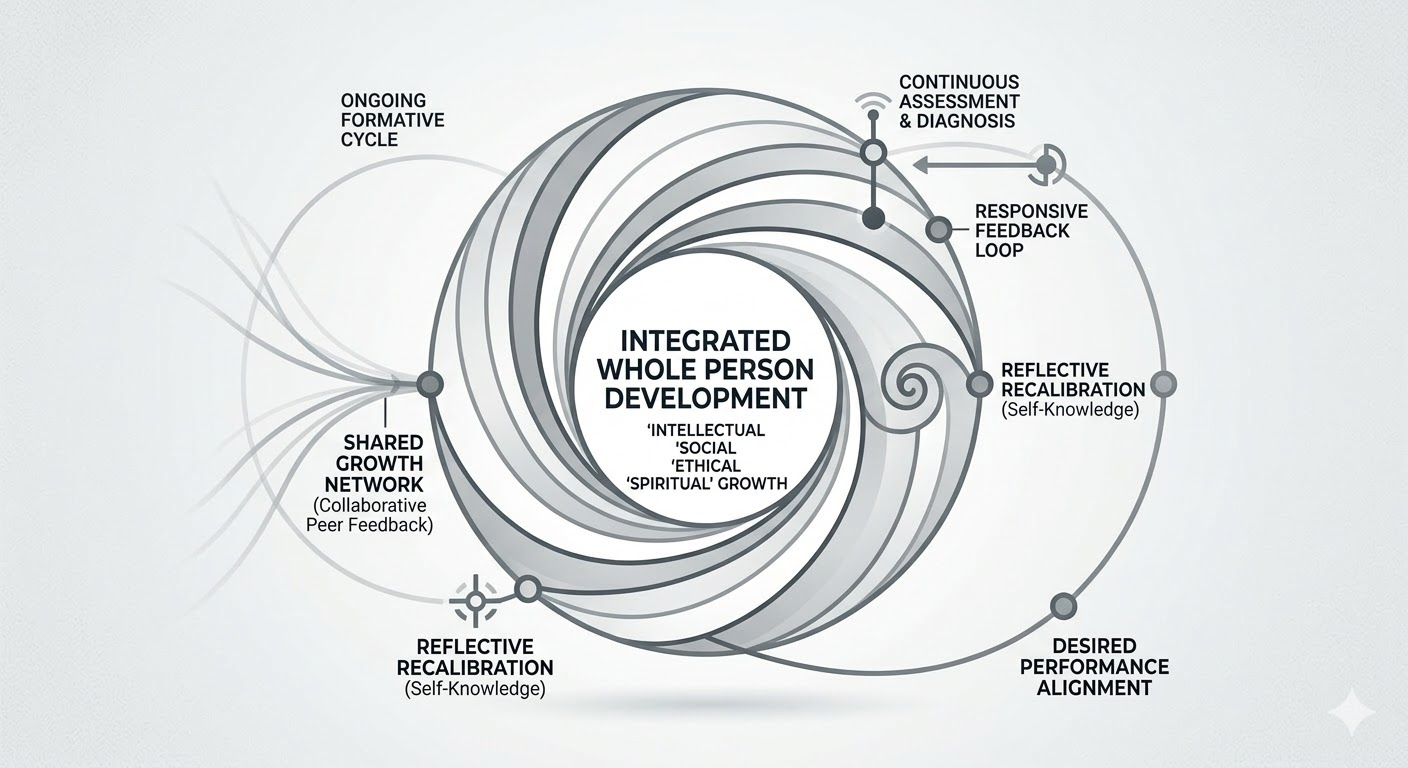
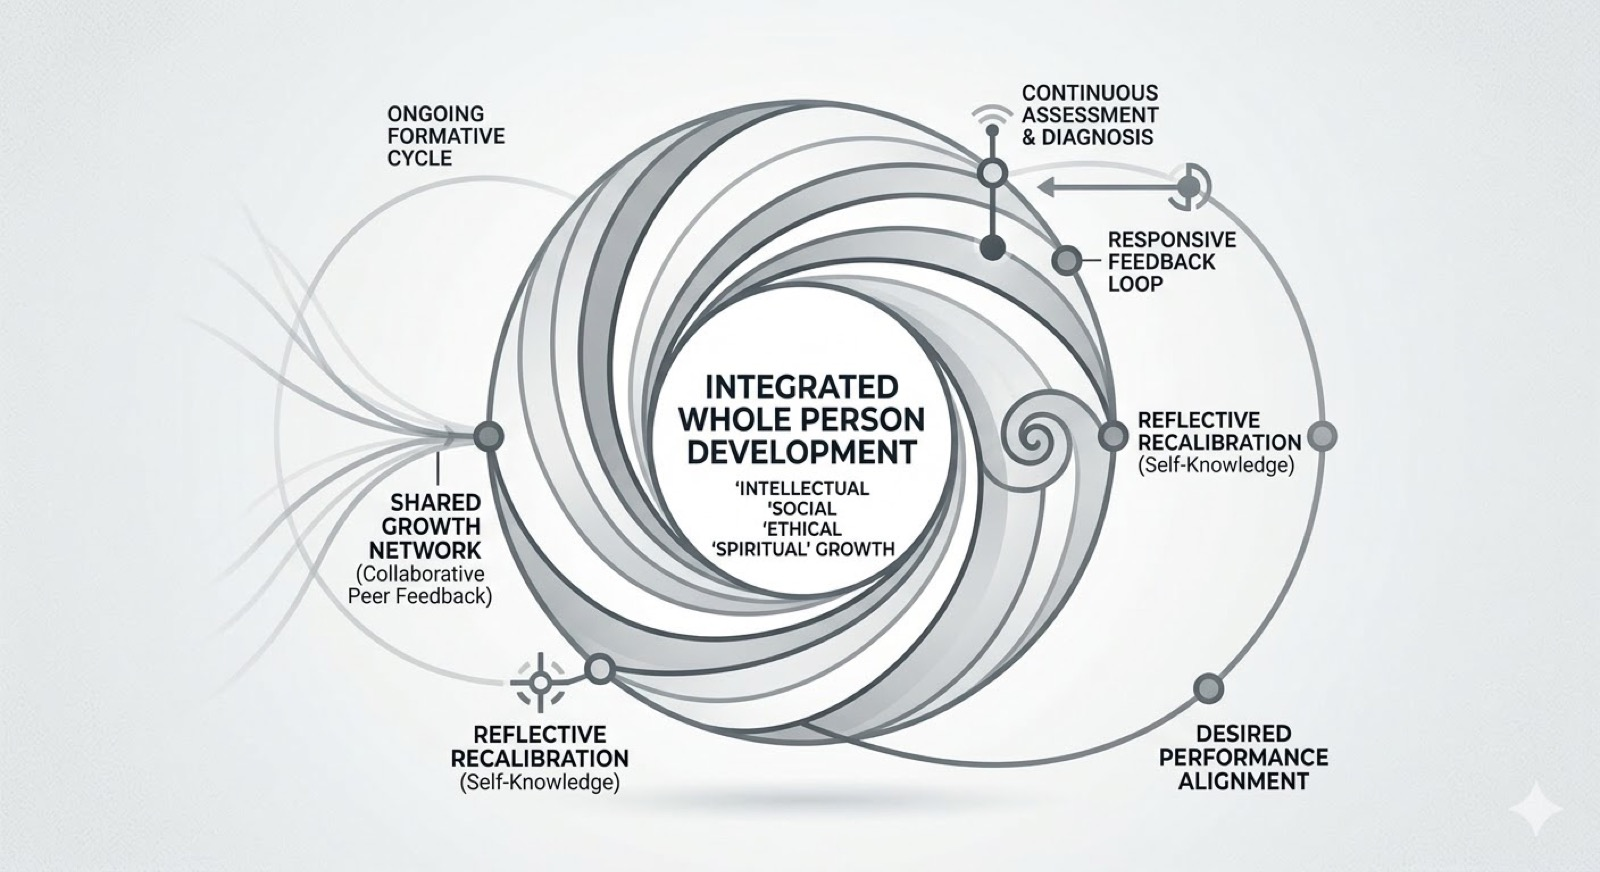
content: real social URLs, merge experience into bio, drop orphans, polish
Sidebar identity:
  - LinkedIn now points to in/deoksoon-kim-5a58ba39
  - ResearchGate now points to profile/Deoksoon-Kim
  - Email pill removed entirely (was a stub; address not surfaced)
  - Location enriched: "Lynch School of Education, Boston College"
  - Result: 4 working pills, 0 dead links anywhere on the site

Information architecture:
  - bio.md absorbed the structured content from experience.md as
    Global Initiatives · Academic Career · Awards & Recognition ·
    Certifications. Bio is now the canonical "about Dr. Kim" page,
    sized to warrant a sticky TOC.
  - Deleted experience.md, location.md, officehours.md — these were
    orphaned from the masthead nav and the address/office content
    is no longer surfaced (per request).

Editorial polish:
  - Gallery cards: replaced "To-be-filled" titles with thematic
    descriptions tied to her research areas (Classroom Research ·
    Identity & Public Scholarship). Image alt text now meaningful.
  - DK English Teams: replaced one-line stub with on-brand
    "team profiles coming" copy that connects to the hub.
  - New 404.md: clean fallback page with quick links and the LinkedIn
    URL for outreach.

Performance:
  - Compressed three oversized images via sips (max 1600px, q75):
    gallery/3.jpg  1452 → 301 KB  (−1151)
    gallery/4.jpg  1107 → 252 KB  (−855)
    res/formative-cover.jpg  353 → 214 KB  (−139)
  - Combined: ~2.1 MB shaved off any page that loads them.

diff --git a/bio.md b/bio.md
@@ -3,17 +3,76 @@ layout: single
 title: "Biography"
 permalink: /bio/
 author_profile: true
-toc: false
+toc: true
+toc_label: "Sections"
+toc_sticky: true
 ---
 
 My research focuses on understanding the needs of immigrant students to facilitate English language acquisition and academic success within the K-12 system. I investigate how instructional technology can be leveraged to enhance learning experiences in STEM and language arts, with a specific emphasis on multimodal digital storytelling.
 
-Throughout my academic career, I have explored the intersections of gender and immigration, formative education, and the development of professional identities for teachers. My work often bridges the gap between cognitive and sociocultural insights to create more equitable educational environments.
+Throughout my academic career, I have explored the intersections of gender and immigration, formative education, and the development of professional identities for teachers. My work often bridges cognitive and sociocultural insights to create more equitable educational environments.
 
-### Professional Journey
-
-After beginning my career as an educator in Seoul, where I founded the Tip-Top Kids English School to serve low-income districts, I transitioned to higher education in the United States. I have since held faculty positions and visiting scholar roles at institutions including Boston College, the University of South Florida, and Harvard Graduate School of Education.
-
-### Global Impact
+## Global Initiatives
+{: .section-header}
 
 I am deeply involved in international educational initiatives, including representing Boston College in working groups with the OECD on the Education 2030 Project. My current projects include a hydroponic Green House initiative with Waltham schools and ongoing research with CityConnects to support emergent bilingual learners.
+
+## Academic Career
+{: .section-header}
+
+### Boston College — [Lynch School of Education and Human Development](https://www.bc.edu/)
+
+**2021 – Present** \| Professor, Teaching, Curriculum, and Society
+**2022 – Present** \| Affiliated Faculty Member, Formative Education Department
+**2016 – 2021** \| Associate Professor, Teaching, Curriculum, and Society
+
+### Harvard University — [Project Zero](https://www.harvard.edu/), Graduate School of Education
+
+**2022 – 2023** \| Visiting Scholar
+Hosted by Drs. Howard Gardner and Wendy Fisher.
+
+### Seoul National University — [College of Education](https://en.snu.ac.kr/)
+
+**Fall 2022** \| Visiting Professor, English Education Department.
+
+### University of South Florida — [College of Education](https://www.usf.edu/)
+
+**2012 – 2016** \| Associate Professor, Foreign Language Education / ESOL / SLA · Department of Teaching and Learning
+**2015 – 2016** \| Core Faculty Member, Teacher Education Doctoral Program
+**2015 – 2016** \| Affiliated Faculty Member, Department of Women's and Gender Studies
+**2012 – 2013** \| Director, Second Language Acquisition / Instructional Technology Interdisciplinary Doctoral Program
+**2006 – 2012** \| Assistant Professor, Secondary Education
+
+### University of Pennsylvania — [Graduate School of Education](https://www.upenn.edu/)
+
+**Spring 2014** \| Visiting Scholar.
+
+### University of Cambridge — [Faculty of Education](https://www.cam.ac.uk/)
+
+**Fall 2013** \| Visiting Scholar
+Hosted by Drs. Michael Evans and Linda Fisher.
+
+### University of New Mexico — [College of Education](https://www.unm.edu/)
+
+**2005 – 2006** \| Postdoctoral Fellow, Language, Literacy, and Sociocultural Studies.
+
+### Founding & Early Career
+
+**1997 – 2000** \| Founder and President, Tip-Top Kids English School, Seoul
+Developed EFL programs, storytelling curricula, and teacher professional development serving roughly 1,500 students. Concurrently served as Chief EFL Teacher at Kwang-hee Elementary School.
+
+**1993 – 1997** \| Academic Director, Neo English Academy with Lego Dacta, Seoul.
+
+## Awards & Recognition
+{: .section-header}
+
+**2025** — Best Paper of the Year · Korean American Educational Research Association (KAERA)
+**2021** — Best Paper of the Year · AERA Online Teaching and Learning SIG
+**2016** — Best Article of the Year · *Journal of Second Language Writing*
+**1998** — Letter of Appreciation · 15th President of the Republic of Korea, Kim Dae-jung
+
+## Certifications
+{: .section-header}
+
+**1996** — International Certificate in Teaching English to Children · Heinemann Publishing Co., United Kingdom
+**1988** — National Certificate (Level 2), Teaching English in Secondary Education · Republic of Korea

diff --git a/404.md b/404.md
@@ -1,0 +1,20 @@
+---
+layout: single
+title: "Page not found"
+permalink: /404.html
+author_profile: true
+sitemap: false
+excerpt: "The page you requested could not be found."
+---
+
+The page you requested could not be located. It may have been moved, renamed, or no longer exists.
+
+A few useful starting points:
+
+* [Biography](/bio/) — academic background and career
+* [Publications](/publications/) — research threads and selected papers
+* [Research](/research/) — current projects and research areas
+* [Teaching](/teaching/) — courses and curriculum work
+* [DK English School](/dk-english/) — applied work in language education
+
+If you arrived here by following a link from another site, please feel free to [reach out](https://www.linkedin.com/in/deoksoon-kim-5a58ba39) so the link can be corrected.

diff --git a/gallery/index.md b/gallery/index.md
@@ -10,23 +10,23 @@ toc_sticky: true
 
 <link rel="stylesheet" href="https://cdnjs.cloudflare.com/ajax/libs/lightgallery/2.7.2/css/lightgallery-bundle.min.css" />
 
-### Category 1
+### Classroom Research
 {: .section-header}
 
 {::nomarkdown}
 <div class="category-gallery content-grid">
-  {% include gallery-card.html image="/assets/images/gallery/1.jpg" title="To-be-filled" desc="To-be-filled" sub="Emergent bilinguals in STEM." %}
-  {% include gallery-card.html image="/assets/images/gallery/3.jpg" title="To-be-filled" desc="To-be-filled" sub="Digital wikis in ESL." %}
+  {% include gallery-card.html image="/assets/images/gallery/1.jpg" title="Emergent Bilinguals in STEM" desc="Research moments from multilingual middle-school science classrooms." sub="Emergent bilinguals in STEM." %}
+  {% include gallery-card.html image="/assets/images/gallery/3.jpg" title="Digital Wikis in ESL" desc="Collaborative writing studies with second-language learners." sub="Digital wikis in ESL." %}
 </div>
 {:/nomarkdown}
 
-### Category 2
+### Identity & Public Scholarship
 {: .section-header}
 
 {::nomarkdown}
 <div class="category-gallery content-grid">
-  {% include gallery-card.html image="/assets/images/gallery/2.jpg" title="To-be-filled" desc="To-be-filled" sub="Identity construction." %}
-  {% include gallery-card.html image="/assets/images/gallery/4.jpg" title="To-be-filled" desc="To-be-filled" sub="Sharing research insights." %}
+  {% include gallery-card.html image="/assets/images/gallery/2.jpg" title="Identity Construction" desc="Bilingual identity and voice in digital storytelling work." sub="Identity construction." %}
+  {% include gallery-card.html image="/assets/images/gallery/4.jpg" title="Research Communication" desc="Sharing findings with educators, students, and the wider community." sub="Sharing research insights." %}
 </div>
 {:/nomarkdown}
 

diff --git a/dk-english/teams.md b/dk-english/teams.md
@@ -6,4 +6,8 @@ author_profile: true
 toc: false
 ---
 
-Team profiles and bios will be added here.
+DK English School is led by educators who share Dr. Kim's commitment to language as an instrument of identity and belonging — not only of communication.
+
+Full team profiles, including teaching philosophies and instructional specialties, are being prepared and will appear here shortly.
+
+In the meantime, please reach out via the [DK English Hub](/dk-english/) for current staff inquiries or to learn about teaching opportunities.